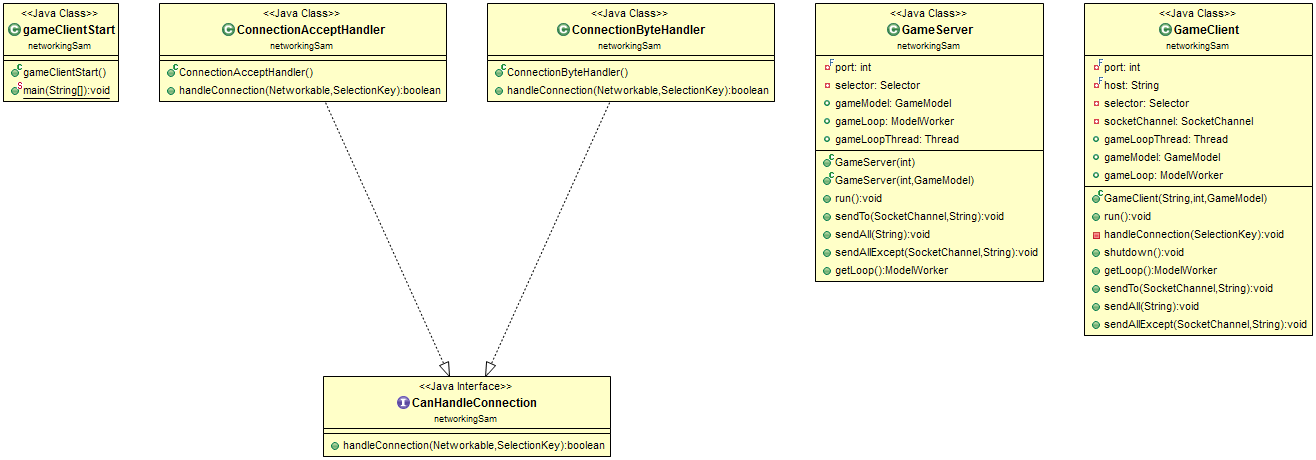
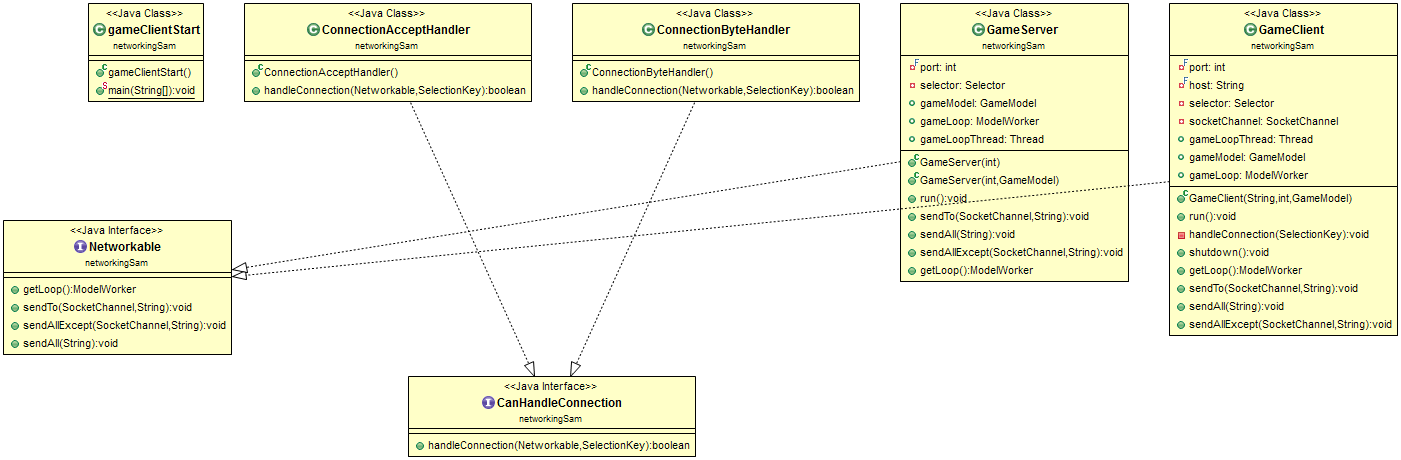
More refactoring (because why not I'm basically done and tired)

diff --git a/src/networkingSam/NetworkedJSONGameLoop.java b/src/networkingSam/NetworkedJSONGameLoop.java
@@ -1,10 +1,15 @@
-package modelTestSam;
+package networkingSam;
 
 import java.io.IOException;
 import java.nio.channels.SocketChannel;
 import java.util.HashMap;
 import java.util.LinkedList;
 import java.util.List;
+
+import modelTestSam.GameEvent;
+import modelTestSam.GameEventHandler;
+import modelTestSam.JacksonSingleton;
+import modelTestSam.ModelWorker;
 
 import com.fasterxml.jackson.databind.JsonMappingException;
 
@@ -47,11 +52,11 @@ public class NetworkedJSONGameLoop implements ModelWorker {
 			try {
 				generatedEvent = JacksonSingleton.getInstance().readValue(dataEvent.data, GameEvent.class);
 				System.out.println("DEBUG: " + dataEvent.data);
-				if (handleMap.containsKey(generatedEvent.type)) {
-					handleMap.get(generatedEvent.type).handleEvent(dataEvent.network, dataEvent.socket, generatedEvent);
+				if (handleMap.containsKey(generatedEvent.getType())) {
+					handleMap.get(generatedEvent.getType()).handleEvent(dataEvent.network, dataEvent.socket, generatedEvent);
 				}
 				else {
-					System.out.println("Cannot handle type: " + generatedEvent.type);
+					System.out.println("Cannot handle type: " + generatedEvent.getType());
 					
 					/*GameEvent unknown = new GameEvent("UNKNOWN");
 					unknown.put("REASON", "Cannot handle type: " + generatedEvent.type);

diff --git a/src/gamePhasesSam/GameBoardSetupPhase.java b/src/gamePhasesSam/GameBoardSetupPhase.java
@@ -7,6 +7,7 @@ import java.util.ArrayList;
 import java.util.HashMap;
 import java.util.LinkedList;
 
+import networkingSam.Networkable;
 import counterModelSam.HeroThing;
 import counterModelSam.Thing;
 import modelTestSam.GameEvent;
@@ -14,7 +15,6 @@ import modelTestSam.GameEventHandler;
 import modelTestSam.GameInstanceGenerator;
 import modelTestSam.GameInstanceGenerator.Predefined;
 import modelTestSam.GameModel;
-import modelTestSam.Networkable;
 import modelTestSam.PlayerModel;
 
 public class GameBoardSetupPhase extends GamePhase {

diff --git a/src/gamePhasesSam/SpecialPowersPhase.java b/src/gamePhasesSam/SpecialPowersPhase.java
@@ -7,6 +7,7 @@ import java.util.ArrayList;
 import java.util.HashMap;
 import java.util.Random;
 
+import networkingSam.Networkable;
 import counterModelSam.EventThing;
 import counterModelSam.HeroThing;
 import counterModelSam.Thing;
@@ -15,7 +16,6 @@ import counterModelSam.HeroThing.HeroType;
 import modelTestSam.GameEvent;
 import modelTestSam.GameEventHandler;
 import modelTestSam.GameModel;
-import modelTestSam.Networkable;
 import modelTestSam.PlayerModel;
 
 public class SpecialPowersPhase extends GamePhase {

diff --git a/src/gamePhasesSam/PlayerVsPlayerCombatPhase.java b/src/gamePhasesSam/PlayerVsPlayerCombatPhase.java
@@ -5,6 +5,7 @@ import java.util.HashSet;
 import java.util.Random;
 import java.util.Set;
 
+import networkingSam.Networkable;
 import counterModelSam.Fort;
 import counterModelSam.Fort.FortType;
 import counterModelSam.MagicThing;
@@ -18,7 +19,6 @@ import modelTestSam.Dice;
 import modelTestSam.GameEvent;
 import modelTestSam.GameEventHandler;
 import modelTestSam.GameModel;
-import modelTestSam.Networkable;
 import modelTestSam.PlayerModel;
 
 public class PlayerVsPlayerCombatPhase extends GamePhase {

diff --git a/src/gamePhasesSam/RecruitThingsPhase.java b/src/gamePhasesSam/RecruitThingsPhase.java
@@ -6,13 +6,13 @@ import hexModelSam.HexModel.TileType;
 import java.nio.channels.SocketChannel;
 import java.util.HashMap;
 
+import networkingSam.Networkable;
 import counterModelSam.SpecialIncome;
 import counterModelSam.Thing;
 import counterModelSam.Thing.ThingType;
 import modelTestSam.GameEvent;
 import modelTestSam.GameEventHandler;
 import modelTestSam.GameModel;
-import modelTestSam.Networkable;
 import modelTestSam.PlayerModel;
 
 public class RecruitThingsPhase extends GamePhase {

diff --git a/src/gamePhasesSam/RandomEventsPhase.java b/src/gamePhasesSam/RandomEventsPhase.java
@@ -5,13 +5,13 @@ import hexModelSam.HexModel;
 import java.nio.channels.SocketChannel;
 import java.util.ArrayList;
 
+import networkingSam.Networkable;
 import counterModelSam.EventThing;
 import counterModelSam.EventThing.EventType;
 import counterModelSam.Thing;
 import modelTestSam.GameEvent;
 import modelTestSam.GameEventHandler;
 import modelTestSam.GameModel;
-import modelTestSam.Networkable;
 import modelTestSam.PlayerModel;
 
 public class RandomEventsPhase extends GamePhase {

diff --git a/src/gamePhasesSam/StartGamePlayThings.java b/src/gamePhasesSam/StartGamePlayThings.java
@@ -5,13 +5,13 @@ import hexModelSam.HexModel.TileType;
 
 import java.nio.channels.SocketChannel;
 
+import networkingSam.Networkable;
 import counterModelSam.SpecialIncome;
 import counterModelSam.Thing;
 import counterModelSam.Thing.ThingType;
 import modelTestSam.GameEvent;
 import modelTestSam.GameEventHandler;
 import modelTestSam.GameModel;
-import modelTestSam.Networkable;
 import modelTestSam.PlayerModel;
 
 public class StartGamePlayThings extends GamePhase {

diff --git a/src/gamePhasesSam/ConstructionPhase.java b/src/gamePhasesSam/ConstructionPhase.java
@@ -6,12 +6,13 @@ import java.nio.channels.SocketChannel;
 import java.util.HashMap;
 import java.util.HashSet;
 import java.util.Set;
+
+import networkingSam.Networkable;
 import counterModelSam.Fort;
 import counterModelSam.Fort.FortType;
 import modelTestSam.GameEvent;
 import modelTestSam.GameEventHandler;
 import modelTestSam.GameModel;
-import modelTestSam.Networkable;
 import modelTestSam.PlayerModel;
 
 public class ConstructionPhase extends GamePhase {

diff --git a/src/gamePhasesSam/UndiscoveredCombatPhase.java b/src/gamePhasesSam/UndiscoveredCombatPhase.java
@@ -1,13 +1,14 @@
 package gamePhasesSam;
 
 import java.nio.channels.SocketChannel;
+
+import networkingSam.Networkable;
 import counterModelSam.Thing;
 import hexModelSam.HexModel;
 import modelTestSam.CombatZone.CombatMode;
 import modelTestSam.GameEvent;
 import modelTestSam.GameEventHandler;
 import modelTestSam.GameModel;
-import modelTestSam.Networkable;
 import modelTestSam.PlayerModel;
 
 public class UndiscoveredCombatPhase extends GamePhase {

diff --git a/src/gamePhasesSam/MovementPhase.java b/src/gamePhasesSam/MovementPhase.java
@@ -8,12 +8,12 @@ import java.util.Arrays;
 import java.util.HashMap;
 import java.util.concurrent.atomic.AtomicInteger;
 
+import networkingSam.Networkable;
 import counterModelSam.Thing;
 import counterModelSam.ThingStack;
 import modelTestSam.GameEvent;
 import modelTestSam.GameEventHandler;
 import modelTestSam.GameModel;
-import modelTestSam.Networkable;
 import modelTestSam.PlayerModel;
 
 public class MovementPhase extends GamePhase {

diff --git a/src/gamePhasesSam/RecruitHeroesPhase.java b/src/gamePhasesSam/RecruitHeroesPhase.java
@@ -1,14 +1,15 @@
 package gamePhasesSam;
 
 import hexModelSam.HexModel;
+
 import java.nio.channels.SocketChannel;
 import java.util.HashMap;
 
+import networkingSam.Networkable;
 import counterModelSam.HeroThing;
 import modelTestSam.GameEvent;
 import modelTestSam.GameEventHandler;
 import modelTestSam.GameModel;
-import modelTestSam.Networkable;
 import modelTestSam.PlayerModel;
 
 public class RecruitHeroesPhase extends GamePhase {

diff --git a/src/networkingSam/ConnectionAcceptHandler.java b/src/networkingSam/ConnectionAcceptHandler.java
@@ -5,8 +5,6 @@ import java.nio.channels.SelectionKey;
 import java.nio.channels.ServerSocketChannel;
 import java.nio.channels.SocketChannel;
 
-import modelTestSam.Networkable;
-
 //Responsible for accepting a connection and passing it off to the appropriate Reader Handler (forced to Byte now, future: param to JSON as example)
 public class ConnectionAcceptHandler implements CanHandleConnection {
 			
